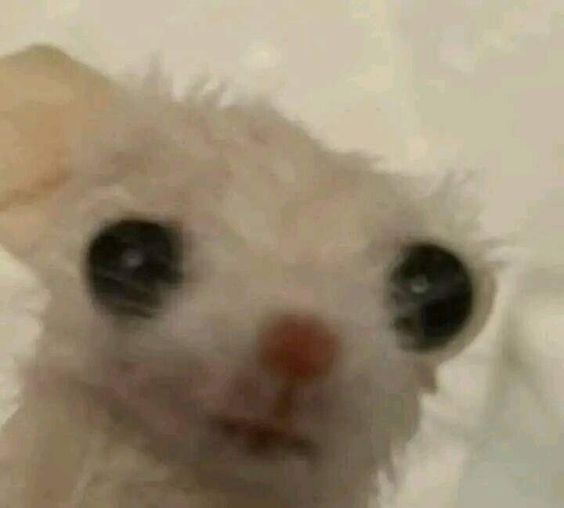
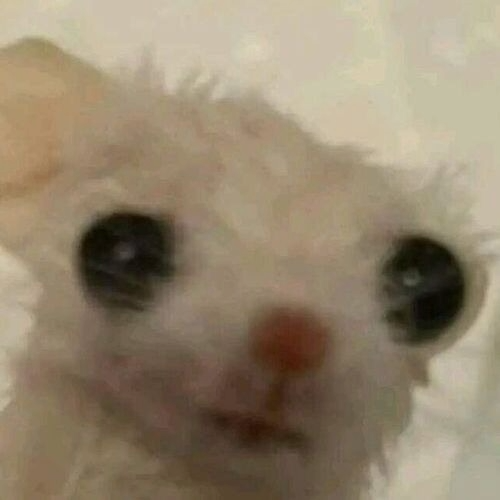
discord image update

diff --git a/config.html b/config.html
@@ -212,7 +212,7 @@
             </div>
             <div class="card-info">
                 <div class="card-name-outer">
-                    <img class="info-image" src="assets/avatars/pp-discord.jpg"/>
+                    <img class="info-image" src="assets/avatars/pp-discord.png"/>
                     <h2 class="info-name">.SHYLY</h2>
                 </div>
                 <p class="info-text">
